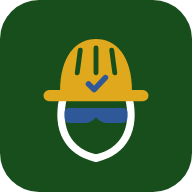
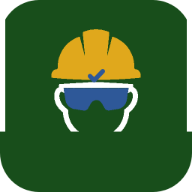
Redesenha o ícone com fidelidade à referência do operário
Reproduz o contorno/formato da imagem de referência (operário de
frente com capacete + óculos + rosto), ajustando apenas as cores:
capacete amarelo (--a-gold), óculos azuis (--info-blue), contorno do
rosto branco, fundo verde (--p-green) e um pequeno check azul na aba
do capacete. Sem as linhas do pescoço. Remove o icon.svg antigo
(vetor desenhado à mão que não corresponde mais à arte).

diff --git a/service-worker.js b/service-worker.js
@@ -4,7 +4,7 @@
 // CONFIGURAÇÃO DO SERVICE WORKER - Definições de Cache
 // =========================================================================
 
-const CACHE_NAME = "gentehonesta-v150";
+const CACHE_NAME = "gentehonesta-v151";
 
 // CONFIGURAÇÃO DO SERVICE WORKER - Lista de Recursos Core para Cache Inicial
 const urlsToCache = [

diff --git a/CLAUDE.md b/CLAUDE.md
@@ -76,9 +76,8 @@ manifest.json           — PWA manifest (start_url e scope usam "./" para GitHu
 service-worker.js       — Network-First, cache offline, CACHE_NAME = "gentehonesta-vN"
 CNAME                   — "gentehonesta.com.br"
 .nojekyll               — Impede o Jekyll do GitHub Pages de processar os arquivos
-icon.svg                — Fonte do ícone do app (operário: capacete + óculos + rosto + check, cores do tema); renderizado para os PNGs
-icon-192.png            — Ícone PWA 192px (referenciado no manifest.json)
-icon-512.png            — Ícone PWA 512px (referenciado no manifest.json)
+icon-192.png            — Ícone PWA 192px (operário: capacete + óculos + rosto + check, cores do tema); referenciado no manifest.json
+icon-512.png            — Ícone PWA 512px (mesma arte); referenciado no manifest.json
 
 css/
   base.css              — Design tokens (:root), roteamento de telas, utilitários, animações
@@ -359,7 +358,7 @@ o ícone fica automaticamente centralizado com o texto. `.btn--text .material-sy
 
 **`text-decoration` não propaga de forma confiável para filhos de um flex container:** `.pro-card__meta-item--inactive` (rodapé do card de profissional, `proFooterHTML()` em `feed.js`) risca só o texto do método de pagamento indisponível, nunca o ícone — mas o `text-decoration: line-through` está no span do RÓTULO (`.pro-card__meta-item__label`), não em `.pro-card__meta-item--inactive` diretamente. Colocar o risco no item (que é `display: inline-flex`) e tentar excluir o ícone com `text-decoration: none` nele NÃO funciona no Chrome: como `.pro-card__meta-item` é um flex container, o ícone (item flex) é "blockificado" e o navegador ignora esse `none`, riscando o ícone mesmo assim. A solução é aplicar o risco direto no span do texto, nunca herdado de um ancestral flex.
 
-**Service Worker:** incrementar `CACHE_NAME` em `service-worker.js` a cada deploy com mudanças de cache. Versão atual: `gentehonesta-v150`. Os arquivos CSS e JS são atualizados automaticamente pelo Network-First; o incremento serve para forçar limpeza de caches antigos.
+**Service Worker:** incrementar `CACHE_NAME` em `service-worker.js` a cada deploy com mudanças de cache. Versão atual: `gentehonesta-v151`. Os arquivos CSS e JS são atualizados automaticamente pelo Network-First; o incremento serve para forçar limpeza de caches antigos.
 
 **Seção "Detalhes profissionais" (`#panel-prodetails`):** todas as subseções seguem o mesmo padrão visual
 (sem cards/fundos individuais) — "O que você faz?", "Suas Habilidades" e "Padrão de Serviços" são
